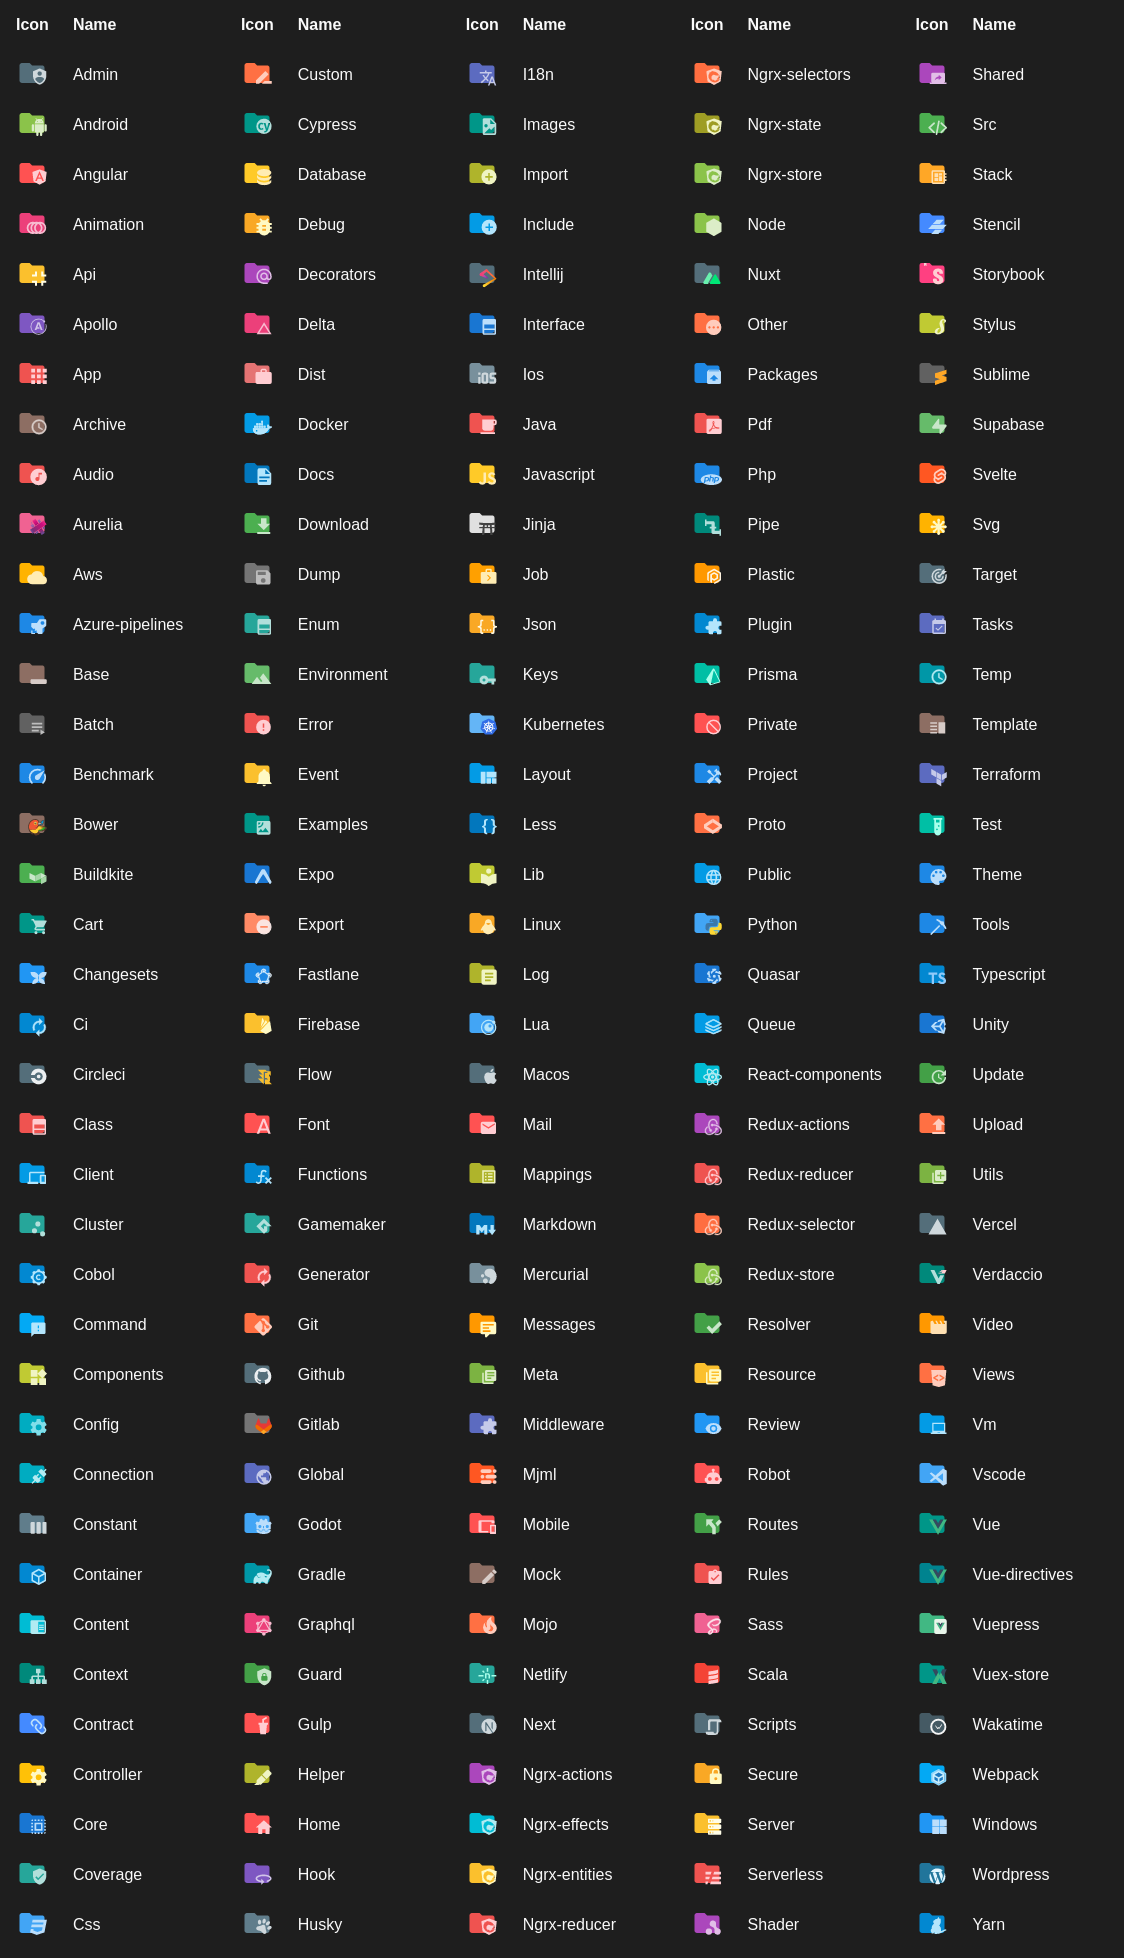
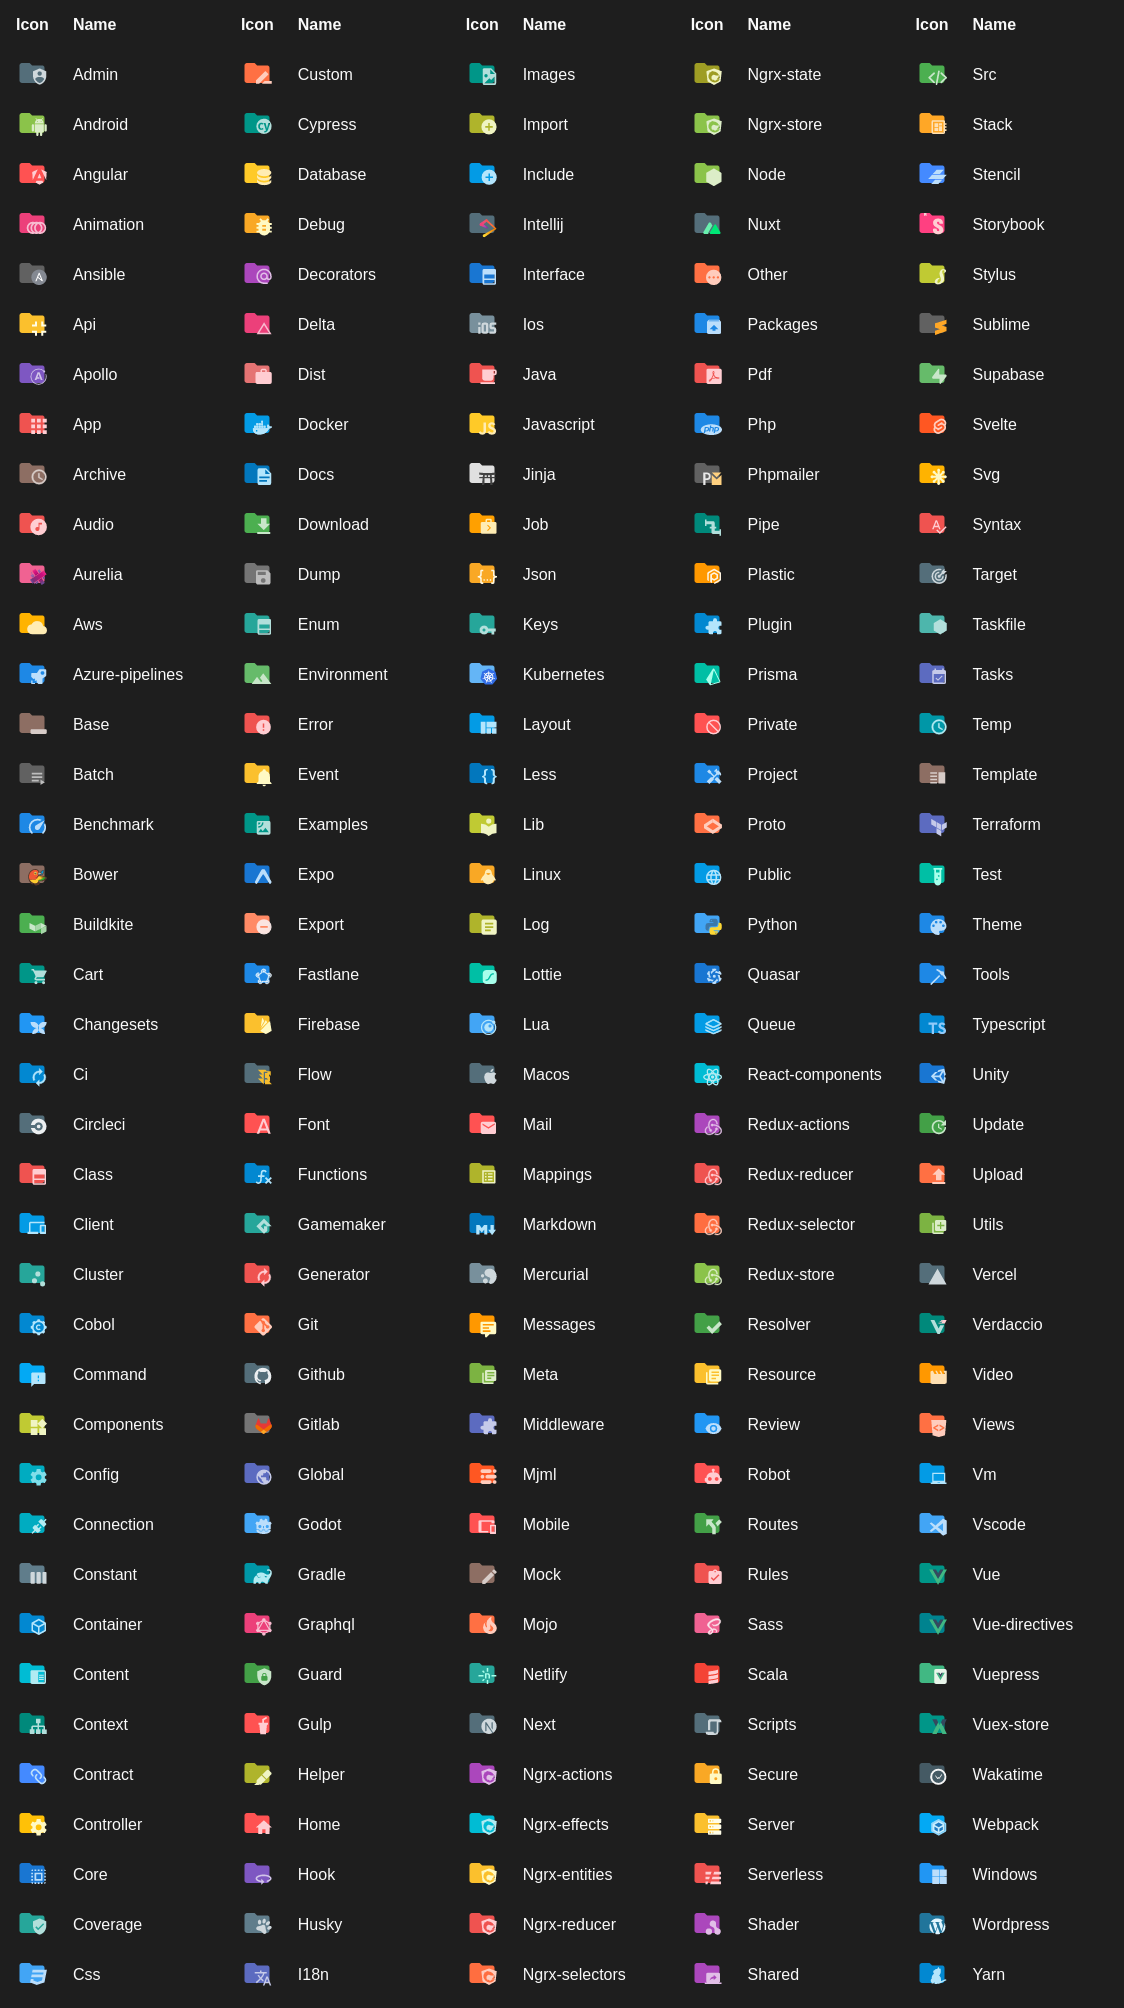
Release 4.32.0

diff --git a/CHANGELOG.md b/CHANGELOG.md
@@ -3,6 +3,24 @@
  All notable changes to this project will be documented in this file. Dates are displayed in UTC.
 
  
+#### [v4.32.0](https://github.com/PKief/vscode-material-icon-theme/compare/v4.31.0...v4.32.0) 
+
+> November 20, 2023 
+
+- [Icon Request] HJSON file icon [`#2136`](https://github.com/PKief/vscode-material-icon-theme/pull/2136)
+- Update workflow files [`d5912bb`](https://github.com/PKief/vscode-material-icon-theme/commit/d5912bb)
+- Add Google App Script (*.gs) file icon [`#2143`](https://github.com/PKief/vscode-material-icon-theme/pull/2143)
+- build(deps-dev): bump axios from 1.4.0 to 1.6.0 [`#2141`](https://github.com/PKief/vscode-material-icon-theme/pull/2141)
+- Added Lottie Folder Icons aswell as the File Icon. [`#2073`](https://github.com/PKief/vscode-material-icon-theme/pull/2073)
+- [Icon Request] Add more textlintrc file names [`#2137`](https://github.com/PKief/vscode-material-icon-theme/pull/2137)
+- Update Angular icons [`#2134`](https://github.com/PKief/vscode-material-icon-theme/pull/2134)
+- Added mjs extension for stylelint [`#2129`](https://github.com/PKief/vscode-material-icon-theme/pull/2129)
+- Add history icon association [`71173fc`](https://github.com/PKief/vscode-material-icon-theme/commit/71173fc)
+- [Icon Request] Taskfile [`#1739`](https://github.com/PKief/vscode-material-icon-theme/pull/1739)
+- [Icon Request] ABAP [`#2123`](https://github.com/PKief/vscode-material-icon-theme/pull/2123)
+- Associate .whitesource file name with json file [`04e6cce`](https://github.com/PKief/vscode-material-icon-theme/commit/04e6cce)
+- feat: add tailwind config esm [`#2112`](https://github.com/PKief/vscode-material-icon-theme/pull/2112)
+ 
 #### [v4.31.0](https://github.com/PKief/vscode-material-icon-theme/compare/v4.30.1...v4.31.0) 
 
 > October 6, 2023 
